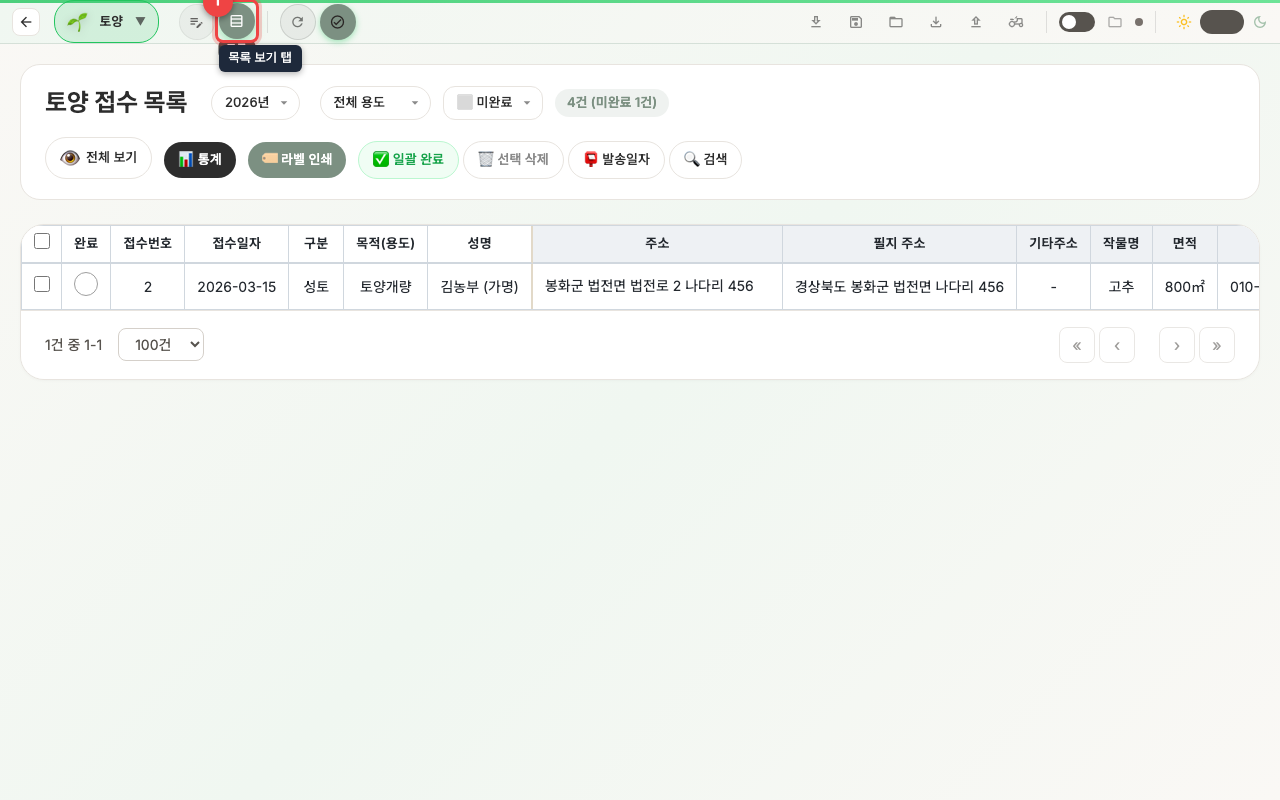
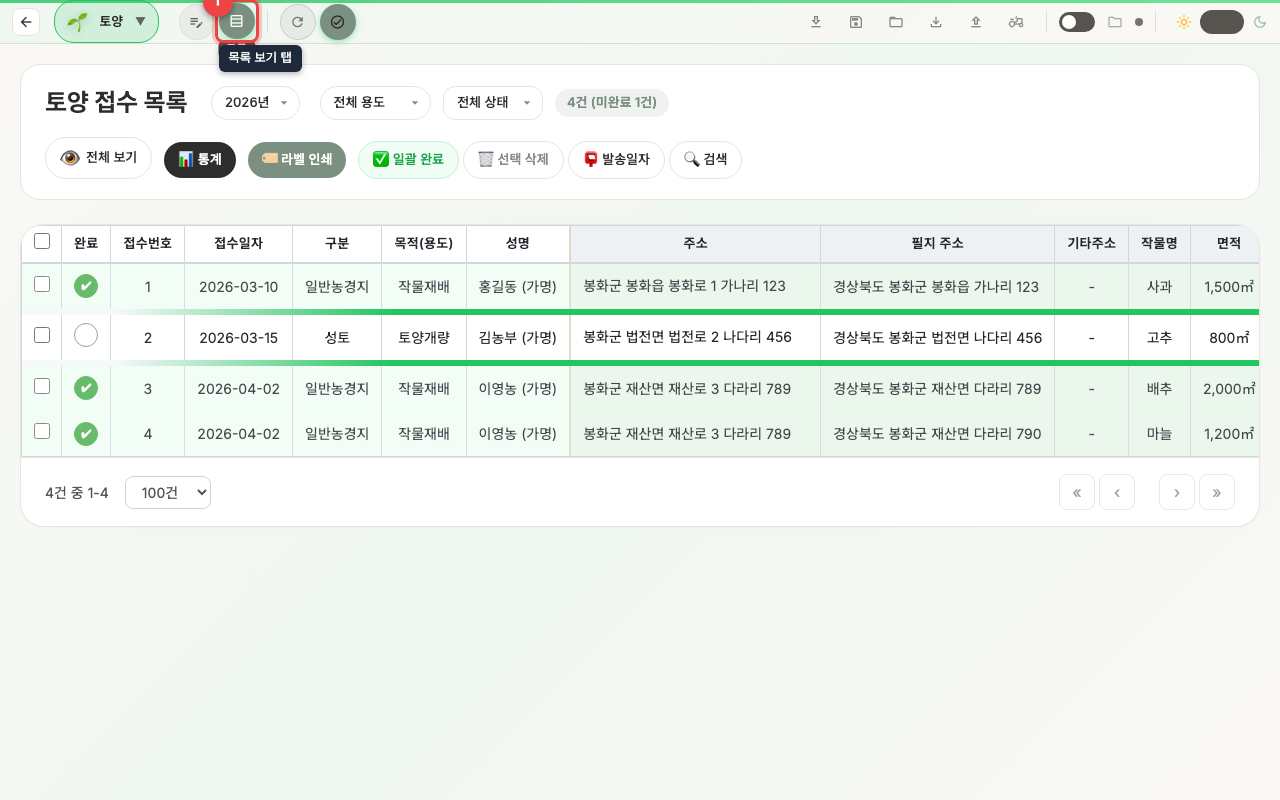
fix(manual): 목록 전체보기 캡처 + 설정 화면 정상 렌더 재캡처
- step-04: completedFilter를 전체 상태로 변경해 4건 전체 행 노출
- step-08: DOMPurify 버그 수정 후 재빌드로 HTML 태그 텍스트 사라짐

diff --git a/tests/e2e/manual-capture.spec.js b/tests/e2e/manual-capture.spec.js
@@ -46,7 +46,10 @@ test.describe('설명서 캡처', () => {
   test('섹션3: 접수 목록', async ({ page }) => {
     await gotoAndWait(page, '/soil/');
     await page.click('[data-view="list"]');
-    await page.waitForTimeout(500);
+    await page.waitForTimeout(400);
+    // 기본 필터(미완료) 해제 — 전체 목록 노출
+    await page.selectOption('#completedFilter', '');
+    await page.waitForTimeout(400);
     await annotate(page, [
       { selector: '[data-view="list"]', number: 1, label: '목록 보기 탭' },
     ]);
